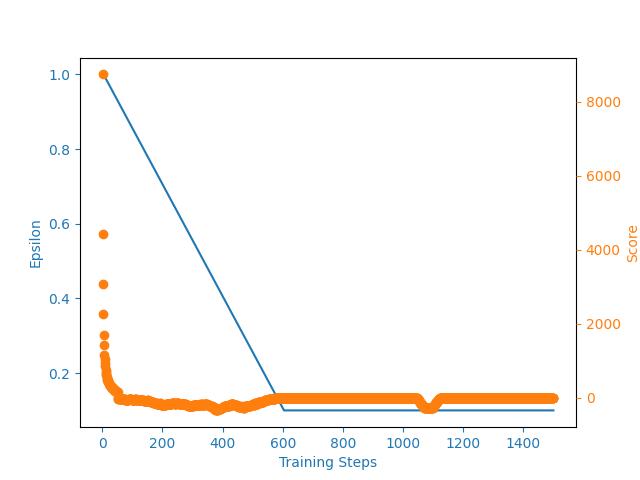
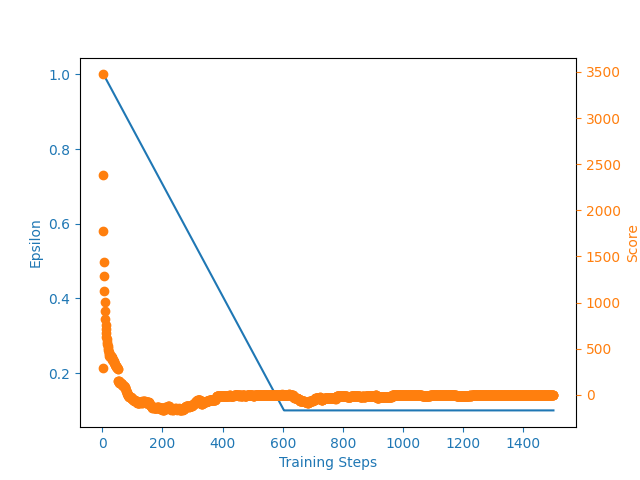
update reset

diff --git a/market_env/env.py b/market_env/env.py
@@ -99,11 +99,13 @@ class User:
 
         self.name = name
         self.safety_margin = safety_margin
+        self._initial_safety_margin = safety_margin
         self.consecutive_healthy_borrows = 0
 
     def reset(self):
         self.funds_available = self._initial_funds_available
         self.consecutive_healthy_borrows = 0
+        self.safety_margin = self._initial_safety_margin
 
     @property
     def wealth(self) -> float:
@@ -289,6 +291,8 @@ class PlfPool:
         self.competing_borrow_apy = competing_borrow_apy
         self.initial_collar_factor = collateral_factor
         self.env.plf_pools[self.asset_name] = self
+        self.user_i_tokens = {self.initiator.name: self.initial_starting_funds}
+        self.user_b_tokens = {self.initiator.name: 0.0}
         self.reset()
 
     def reset(self):
@@ -308,10 +312,6 @@ class PlfPool:
 
         # actual underlying that's still available, not the interest-bearing tokens
         self.total_available_funds = self.initial_starting_funds
-
-        self.user_i_tokens = {self.initiator.name: self.initial_starting_funds}
-
-        self.user_b_tokens = {self.initiator.name: 0.0}
 
         # add interest-bearing token into initiator's wallet
         self.initiator.funds_available[

diff --git a/rl/main_gov.py b/rl/main_gov.py
@@ -20,7 +20,7 @@ if __name__ == "__main__":
     plf = PlfPool(
         env=defi_env,
         initiator=Alice,
-        initial_starting_funds=300_000,
+        initial_starting_funds=800_000,
         asset_name="tkn",
         collateral_factor=0.8,
     )
